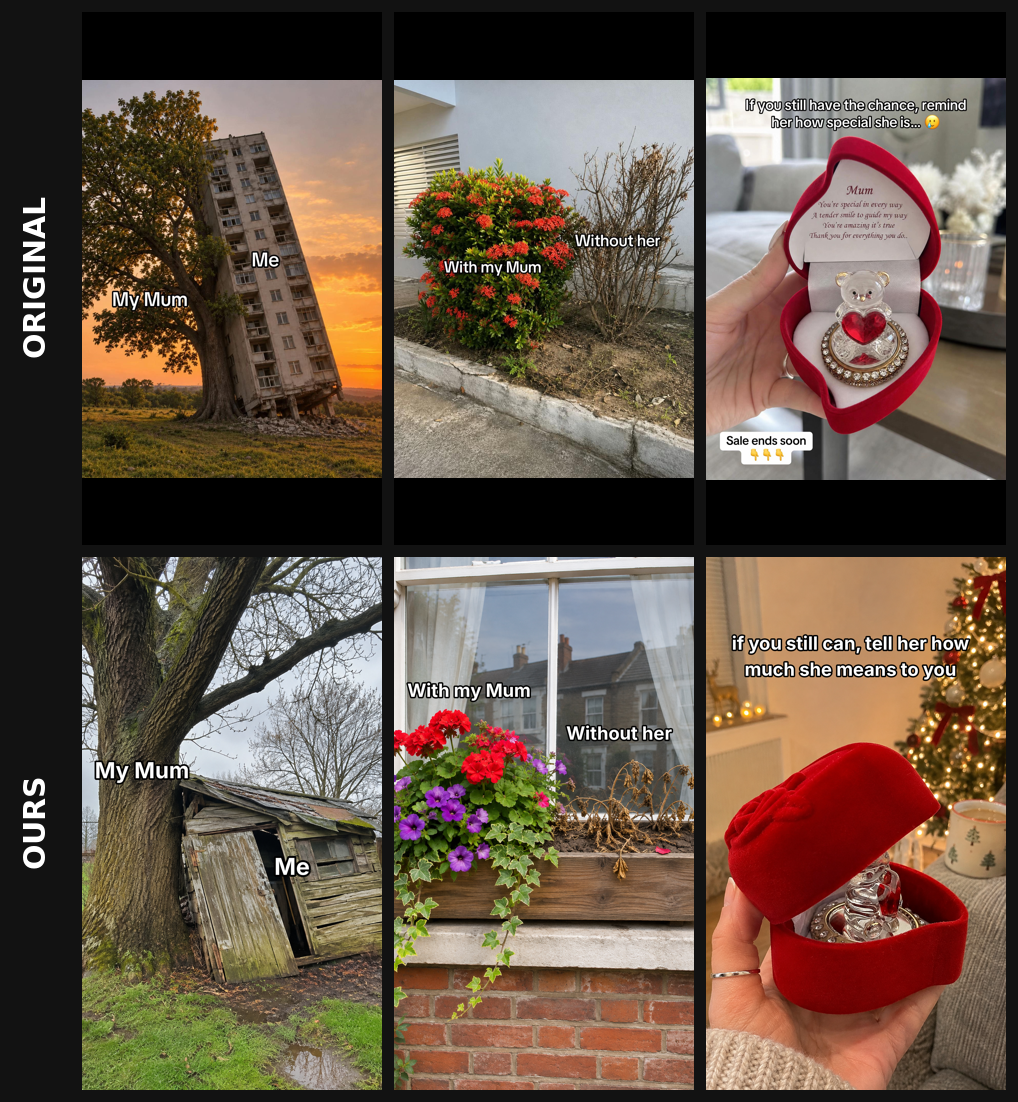
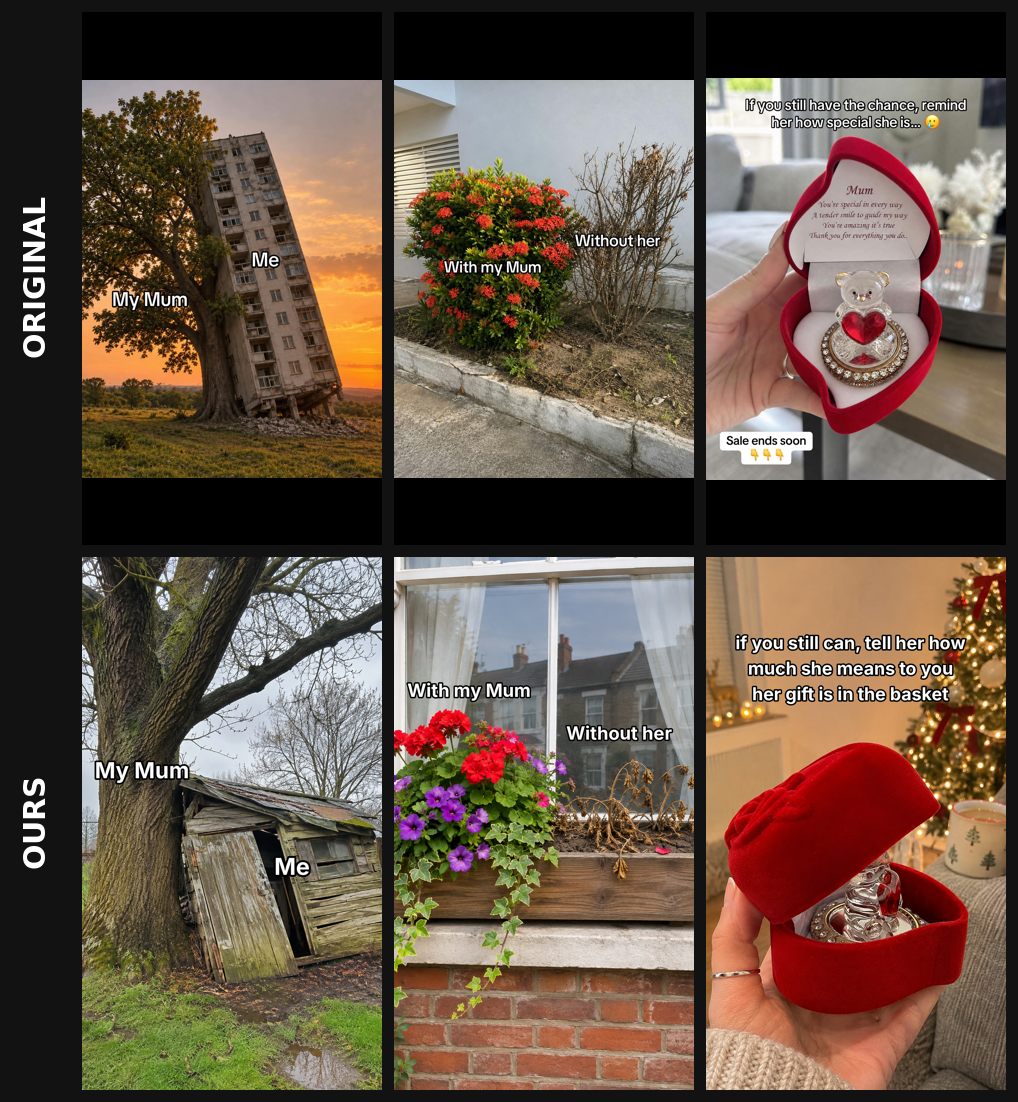
Require a call to action on every last slide; add Chrome launcher, allow rule and daily-batch rules
Claude-Session: https://claude.ai/code/session_01Y5GtWbcZkKUEpsVxAierGo

Changed region(s): [[0.7004, 0.5554, 0.944, 0.6479]]

diff --git a/skills/viral-slideshow-factory/scripts/finish.py b/skills/viral-slideshow-factory/scripts/finish.py
@@ -22,6 +22,8 @@ RISKY = [
     r"\banxiety\b", r"\bdepression\b", r"\bacne\b", r"\beczema\b", r"\bhair loss\b", r"\bregrow",
     r"\bdetox\b", r"\bimmune\b", r"\bpain relief\b", r"\bmiracle\b", r"\b100% (safe|natural|effective)\b",
 ]
+# The last slide must tell people what to do next (soft call to action).
+CTA = re.compile(r"basket|link|shop|tap|grab|get (yours|one|it)|check (it )?out|below|in my (bio|showcase)|buy|order|add to cart", re.I)
 URGENCY = [r"only \d+ left", r"selling out", r"last chance", r"ends (tonight|today)", r"limited stock", r"almost gone"]
 MONEY = re.compile(r"([£$])\s?(\d+(?:[.,]\d{1,2})?)")
 PCT = re.compile(r"(\d{1,2})\s?%\s?off", re.I)
@@ -47,6 +49,9 @@ def check(post, slides):
     if cpp is None:
         warns.append("commission_per_sale not recorded")
 
+    sl = slides.get("slides", [])
+    if sl and not CTA.search(str(sl[-1].get("text", ""))):
+        errors.append("last slide has no call to action (e.g. 'linked in the basket', 'tap the basket') - every slideshow must end with one")
     texts = [("title", post.get("title", "")), ("caption", post.get("caption", ""))]
     texts += [(f"slide {i}", s.get("text", "")) for i, s in enumerate(slides.get("slides", []), 1)]
     price, was = get(post, "product.price"), get(post, "product.was_price")

diff --git a/skills/viral-slideshow-factory/SKILL.md b/skills/viral-slideshow-factory/SKILL.md
@@ -20,6 +20,15 @@ Each remake keeps the *idea* of a proven winner (hook angle, slide structure, se
 | Output folder | `Slideshows/<YYYY-MM-DD>/` in the current working directory |
 | Research window | Last 7 days, falling back to 30 days if there are fewer than about 10 slideshows |
 
+## Daily batch (scheduled morning runs)
+
+When this runs as the scheduled morning batch (the prompt says so), these override the settings above:
+- **Count:** the number the prompt asks for (e.g. 20). Prefer screenshot formats (chat, email, comment reply) and memes where only one or two photos are needed, because ChatGPT Plus limits how many images can be made in a few hours. On `RATE_LIMITED`, stop generating, finish every slideshow whose images are done, and report how many were made and how many were planned.
+- **Commission:** it can't be checked (not on Social1, and TikTok Shop pages block scripts), so don't wait for the user. Only pick products priced **£8 or more**, and in the report list every product with "commission: check in the affiliate app before posting".
+- **No repeats:** before picking, read the folder names of earlier runs (`Slideshows/*/`) on the `daily-slideshows` branch and on `main`, and don't repeat a product made in the last 14 days.
+- **Logins:** the saved logins don't survive between sessions, so expect to ask the user for the Social1 code and then the ChatGPT code. Ask in one short message each and keep the scripts waiting (they wait 10 minutes).
+- **Output:** commit the finished folders (not `_research/` or `_build/original/`, which `.gitignore` already skips) and push to the `daily-slideshows` branch, then send the user each slideshow's `comparison.png` and the `report.md`.
+
 ## Pick the mode
 
 - **A. Trending ("make me N slideshows")**: research Social1, pick N winners, remake each. This is the default.
@@ -35,7 +44,8 @@ The user can mix them, for example "5 trending ones plus one for this product".
 1. **Claude in Chrome (preferred when its tools are available).** It uses the user's own Chrome, which is already logged into Social1 and ChatGPT, so there are no login codes. Load the chrome-browser skill first if it exists. Work in a new tab and never close the user's tabs. Use it to browse Social1 and TikTok and to read pages. For ChatGPT image generation it must be able to attach the product photo and save the result to disk. If it can't do either, use the script below for that one step.
 2. **Bundled Playwright scripts** (any computer, including cloud sessions). Scripts live in `scripts/` next to this file; call that folder `$S`.
    - First time: `cd $S && npm install && npx playwright install chromium`. If Google Chrome is installed, `BROWSER_CHANNEL=chrome` makes the sites less likely to block the browser.
-   - **In a cloud session** Social1 and ChatGPT turn away a hidden (headless) browser. Run every script in real Chrome on a virtual screen: `HEADED=1 BROWSER_CHANNEL=chrome xvfb-run -a -s "-screen 0 1400x1000x24" node $S/<script> ...`. If the session's safety check refuses this, tell the user and let them decide (for example by switching the session out of Auto mode); don't look for other ways round a site's bot check.
+   - **In a cloud session** Social1 and ChatGPT turn away a hidden (headless) browser. Run every browser script through the launcher, which uses real Chrome on a virtual screen: `skills/viral-slideshow-factory/scripts/run-chrome.sh <script.js> [args]` (from the repo root), for example `skills/viral-slideshow-factory/scripts/run-chrome.sh social1_login.js --shot /tmp/s1.png`. The repo's `.claude/settings.json` allows this launcher. If a session's safety check still refuses it, tell the user and let them decide; don't look for other ways round a site's bot check.
+   - Only one browser script can use a site's saved profile at a time. Never run two scripts for the same site at once.
    - Credentials come only from environment variables: `SOCIAL1_EMAIL`, `CHATGPT_EMAIL`, `CHATGPT_PASSWORD`. Never write them into a file, report or chat. If they're missing, ask the user to set them.
    - Sessions are saved in `~/.tiktok-shop-slideshows/profiles/` (shared with the older tiktok-shop-slideshows skill), so logins only re-run when a session expires.
    - `node $S/social1_login.js --shot /tmp/s1.png` **in the background**. If it prints `NEEDS_CODE`, ask: "Social1 has just emailed you a login code. What is it?" and write it with `echo 123456 > ~/.tiktok-shop-slideshows/social1_code.txt` (or the whole link, if they got a link). Wait for `LOGGED_IN` or `NO_LOGIN_FORM`.
@@ -112,6 +122,8 @@ Read `references/recreate.md` and follow it. In short:
 - Get a clean product photo into `_build/product/`, ideally a packshot from the TikTok Shop listing. For mode B/C, the user's photo is fine if it's clear.
 
 Add a per-slide plan: the image prompt, the text, its position and style (`outline` or `box`, matching the original).
+
+**The last slide always ends with a call to action**, even if the original didn't have one: a short line such as "linked in the basket", "tap the orange basket" or "it's in the basket below". Keep it soft: no fake urgency like "sale ends soon" unless the listing really shows an end date. `finish.py` refuses a slideshow whose last slide has none.
 
 ## 5. Make the images (ChatGPT)
 
